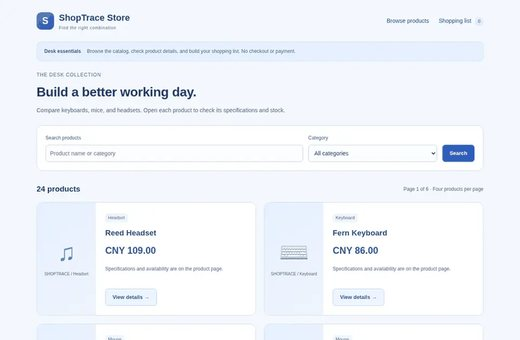
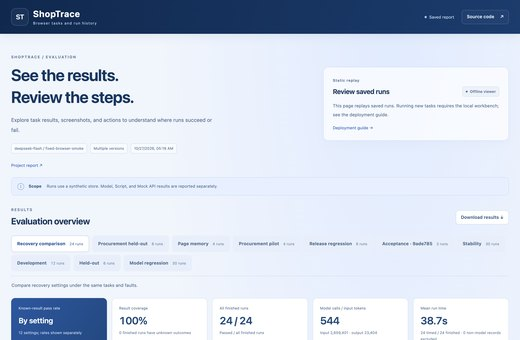
Add GeoCompass; use repository figures for project thumbnails

diff --git a/index.html b/index.html
@@ -729,7 +729,7 @@
     <h2 class="sec-title">Projects</h2>
 
     <div class="pub-item">
-        <div class="pub-thumb"><img class="thumb-art" src="图标/skilevo.jpg" alt="SkillEvo concept: skills are selected from memory and written back" width="520" height="340" loading="lazy" decoding="async"></div>
+        <div class="pub-thumb"><img class="thumb-art" src="图标/skilevo.jpg" alt="Task success rate of skill-reuse methods in SkillEvo" width="520" height="340" loading="lazy" decoding="async"></div>
         <div class="pub-body">
             <h3>SkillEvo: Calibrated Skill Selection and Tiered Memory for Tool-Using Agents</h3>
             <div class="pub-meta">May 2026 – Present</div>
@@ -744,17 +744,32 @@
     </div>
 
     <div class="pub-item">
-        <div class="pub-thumb"><img src="图标/shoptrace.jpg" alt="ShopTrace store page with product search and category filters" width="520" height="340" loading="lazy" decoding="async"></div>
+        <div class="pub-thumb"><img class="thumb-art" src="图标/geocompass.jpg" alt="GeoCompass transfer heatmap of skill utility and compatibility across geospatial task families" width="520" height="340" loading="lazy" decoding="async"></div>
+        <div class="pub-body">
+            <h3>GeoCompass: Calibrated Spatial-Skill Reuse and Tiered Memory for Geospatial Agents</h3>
+            <div class="pub-meta">Oct 2026 – Present</div>
+            <div class="tags"><span class="tag">Geospatial Agent</span><span class="tag">Skill Reuse</span><span class="tag">Calibration</span><span class="tag">Experience Memory</span></div>
+            <div class="pub-links">
+                <a href="https://github.com/zhengjiabei1/GeoCompass" target="_blank" rel="noopener noreferrer">
+                    <svg width="14" height="14" viewBox="0 0 24 24" fill="none" stroke="currentColor" stroke-width="2" stroke-linecap="round" stroke-linejoin="round" aria-hidden="true"><path d="M9 19c-5 1.5-5-2.5-7-3m14 6v-3.87a3.37 3.37 0 0 0-.94-2.61c3.14-.35 6.44-1.54 6.44-7A5.44 5.44 0 0 0 20 4.77 5.07 5.07 0 0 0 19.91 1S18.73.65 16 2.48a13.38 13.38 0 0 0-7 0C6.27.65 5.09 1 5.09 1A5.07 5.07 0 0 0 5 4.77a5.44 5.44 0 0 0-1.5 3.78c0 5.42 3.3 6.61 6.44 7A3.37 3.37 0 0 0 9 18.13V22"/></svg>
+                    GitHub<span class="sr-only"> (opens in a new tab)</span>
+                </a>
+            </div>
+        </div>
+    </div>
+
+    <div class="pub-item">
+        <div class="pub-thumb"><img src="图标/shoptrace.jpg" alt="ShopTrace evaluation report with saved runs and result coverage" width="520" height="340" loading="lazy" decoding="async"></div>
         <div class="pub-body">
             <h3>ShopTrace: Evaluating LLM Agents on Web Shopping Tasks</h3>
             <div class="pub-meta">July 2026 – August 2026</div>
             <div class="tags"><span class="tag">Web Agent</span><span class="tag">LLM Evaluation</span><span class="tag">Playwright</span><span class="tag">Python</span><span class="tag">SQLite</span></div>
             <div class="pub-links">
-                <a href="https://github.com/zhengjiabei1/shopping_agent" target="_blank" rel="noopener noreferrer">
+                <a href="https://github.com/zhengjiabei1/ShopTrace" target="_blank" rel="noopener noreferrer">
                     <svg width="14" height="14" viewBox="0 0 24 24" fill="none" stroke="currentColor" stroke-width="2" stroke-linecap="round" stroke-linejoin="round" aria-hidden="true"><path d="M9 19c-5 1.5-5-2.5-7-3m14 6v-3.87a3.37 3.37 0 0 0-.94-2.61c3.14-.35 6.44-1.54 6.44-7A5.44 5.44 0 0 0 20 4.77 5.07 5.07 0 0 0 19.91 1S18.73.65 16 2.48a13.38 13.38 0 0 0-7 0C6.27.65 5.09 1 5.09 1A5.07 5.07 0 0 0 5 4.77a5.44 5.44 0 0 0-1.5 3.78c0 5.42 3.3 6.61 6.44 7A3.37 3.37 0 0 0 9 18.13V22"/></svg>
                     GitHub<span class="sr-only"> (opens in a new tab)</span>
                 </a>
-                <a href="https://zhengjiabei1.github.io/shopping_agent/" target="_blank" rel="noopener noreferrer">
+                <a href="https://zhengjiabei1.github.io/ShopTrace/" target="_blank" rel="noopener noreferrer">
                     <svg width="14" height="14" viewBox="0 0 24 24" fill="currentColor" aria-hidden="true"><path d="M8 5v14l11-7z"/></svg>
                     Live replay<span class="sr-only"> (opens in a new tab)</span>
                 </a>
@@ -763,7 +778,7 @@
     </div>
 
     <div class="pub-item">
-        <div class="pub-thumb"><img class="thumb-art" src="图标/unet-water.jpg" alt="U-Net concept: satellite water body tile with predicted mask and U-Net encoder-decoder diagram" width="520" height="340" loading="lazy" decoding="async"></div>
+        <div class="pub-thumb"><img class="thumb-art" src="图标/unet-water.jpg" alt="Sentinel-2 image and U-Net predicted water mask" width="520" height="340" loading="lazy" decoding="async"></div>
         <div class="pub-body">
             <h3>Multimodal Water-Body Semantic Segmentation with U-Net</h3>
             <div class="pub-meta">March 2026 – June 2026</div>
